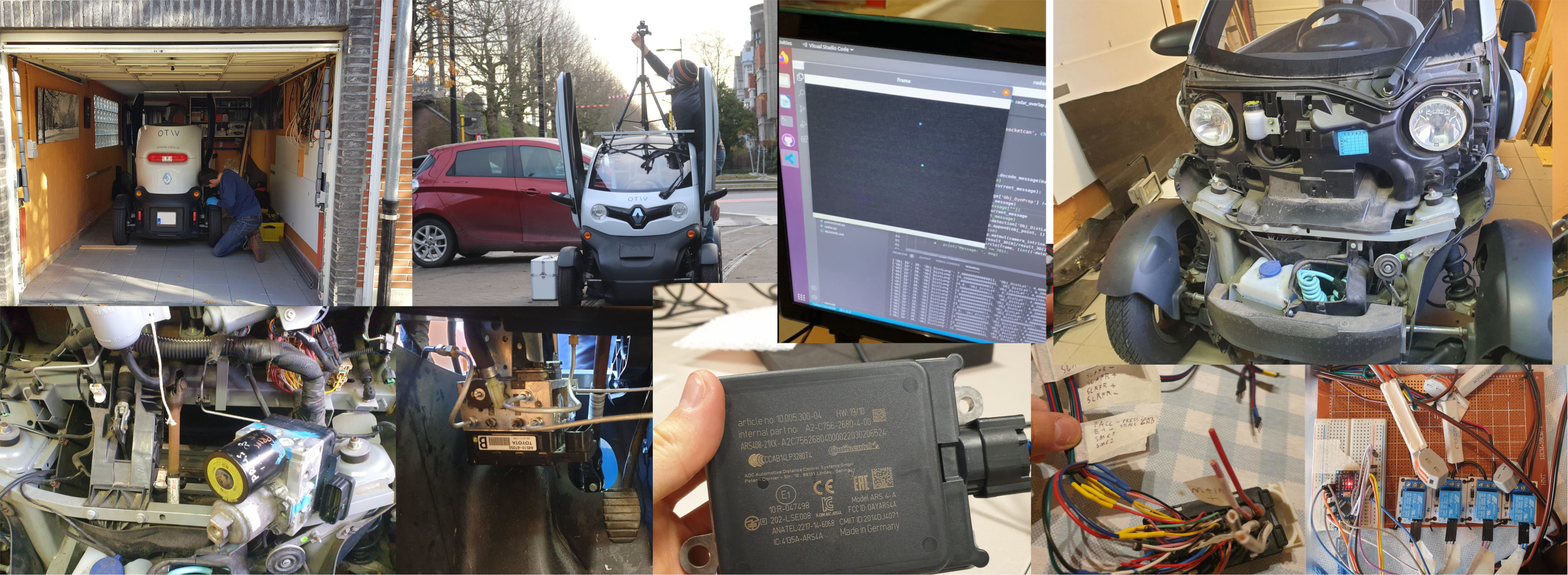
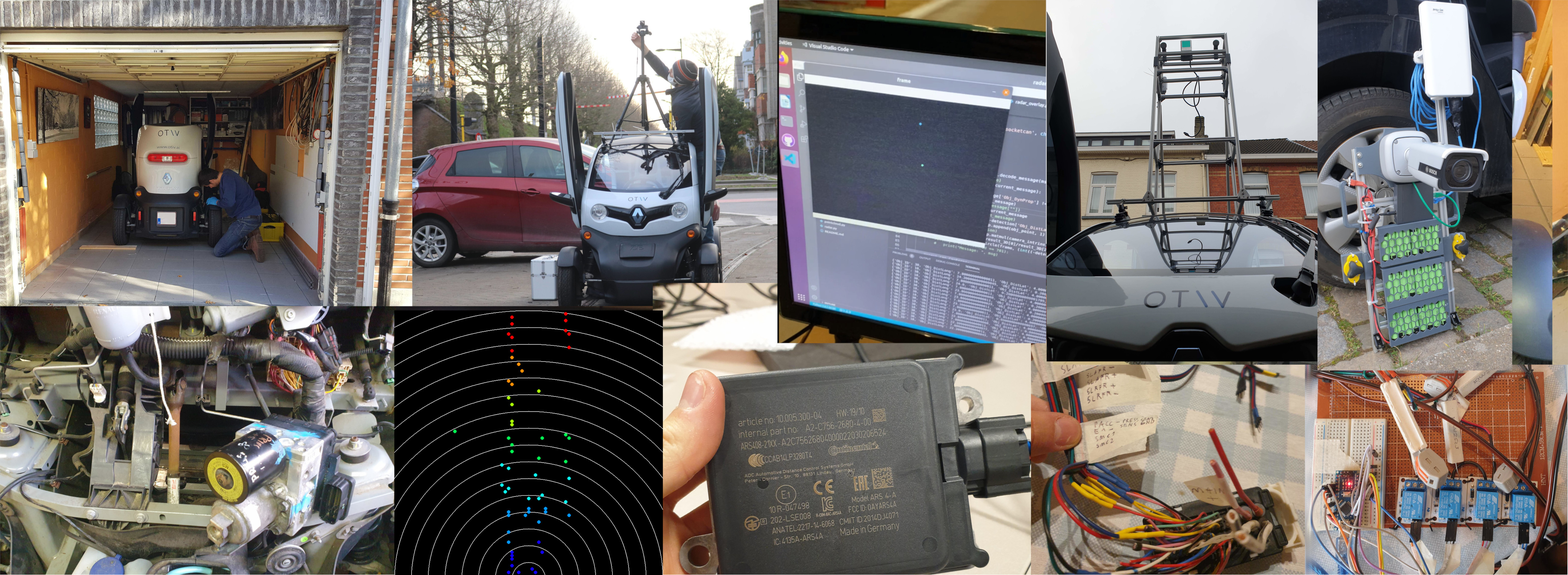
add photos

Changed region(s): [[0.6525, 0.0, 0.9631, 0.6518], [0.2486, 0.5276, 0.435, 1.0]]

diff --git a/_pages/home.md b/_pages/home.md
@@ -15,7 +15,7 @@ excerpt: "Computer Scientist working on advanced safety and autonomy solutions f
 intro: 
   - excerpt: 'Graduate from Kings College London and passionate about real world problem solving, with experience in prototyping, hardware and software.'
 feature_row:
-  - image_path: assets/images/thumbnails/niels_twizy_testing.jpg
+  - image_path: assets/images/thumbnails/sensorsuite.jpg
     alt: "ars 408 radar"
     title: "Prototyping"
     excerpt: "Automated braking, turning, driver assistance"
